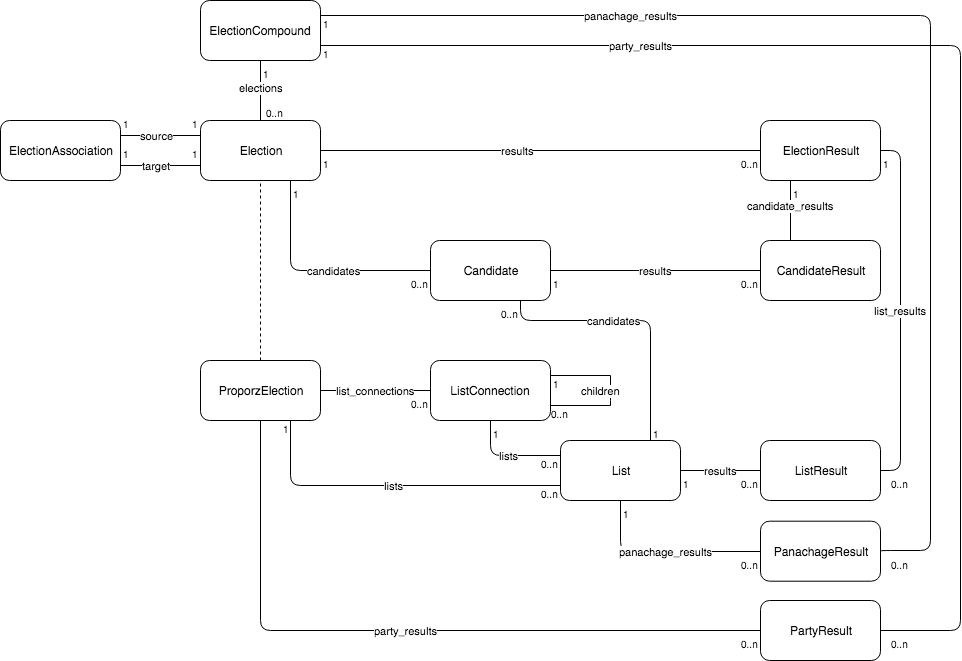
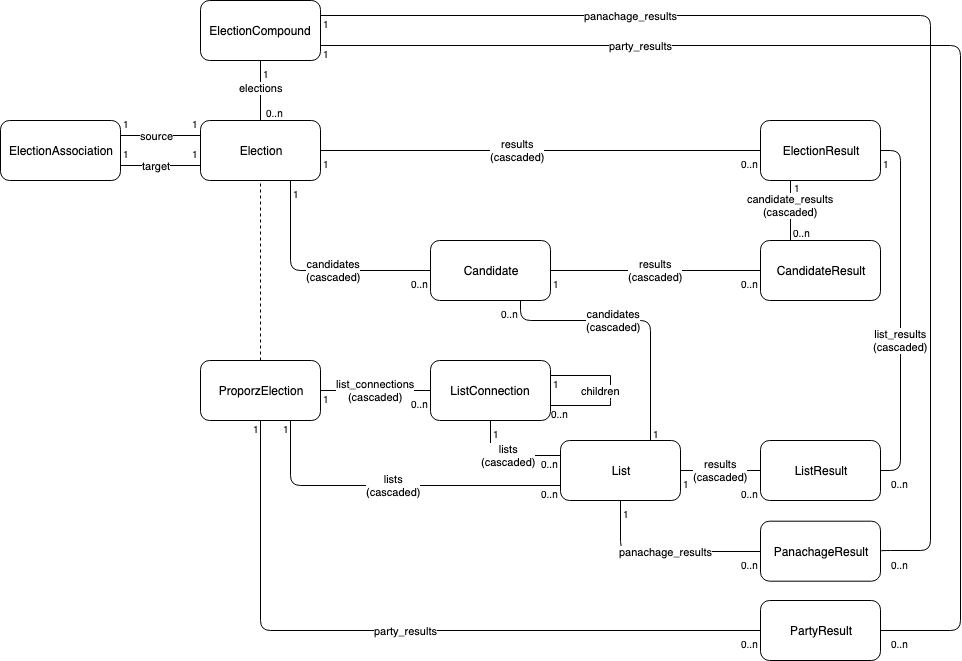
Speeds up clearing election results

diff --git a/onegov/ballot/upgrade.py b/onegov/ballot/upgrade.py
@@ -445,3 +445,66 @@ def add_default_majority_type(context):
     for election in context.session.query(Election).all():
         if not election.majority_type:
             election.majority_type = 'absolute'
+
+
+@upgrade_task('Add delete contraints')
+def add_delete_contraints(context):
+    # We use SQL (rather than operations.xxx) so that we can drop and add
+    # the constraints in one statement
+    for table, ref, update, delete in (
+        # ('candidate_results', 'candidate', False, True),  # see below
+        # ('candidate_results', 'election_result', False, True),  # see below
+        ('candidates', 'election', True, True),
+        # ('candidates', 'list', False, True),  # see below
+        ('election_results', 'election', True, True),
+        ('list_connections', 'election', True, True),
+        ('list_results', 'election_result', False, True),
+        ('list_results', 'list', False, True),
+        # ('lists', 'connection', False, True),  # see below
+        ('lists', 'election', True, True),
+    ):
+        update = 'ON UPDATE CASCADE' if update else ''
+        delete = 'ON DELETE CASCADE' if delete else ''
+        context.operations.execute(
+            f'ALTER TABLE {table} '
+            f'DROP CONSTRAINT {table}_{ref}_id_fkey, '
+            f'ADD CONSTRAINT {table}_{ref}_id_fkey'
+            f' FOREIGN KEY ({ref}_id) REFERENCES {ref}s (id) {update} {delete}'
+        )
+
+    # there was a typo
+    context.operations.execute(
+        f'ALTER TABLE candidate_results '
+        f'DROP CONSTRAINT IF EXISTS candiate_results_candiate_id_fkey, '
+        f'DROP CONSTRAINT IF EXISTS candiate_results_candidate_id_fkey, '
+        f'DROP CONSTRAINT IF EXISTS candidate_results_candiate_id_fkey, '
+        f'DROP CONSTRAINT IF EXISTS candidate_results_candidate_id_fkey, '
+        f'ADD CONSTRAINT candidate_results_candidate_id_fkey'
+        f' FOREIGN KEY (candidate_id) REFERENCES candidates (id)'
+        f' ON DELETE CASCADE'
+    )
+    context.operations.execute(
+        f'ALTER TABLE candidate_results '
+        f'DROP CONSTRAINT IF EXISTS candiate_results_election_result_id_fkey, '
+        f'DROP CONSTRAINT IF EXISTS candidate_results_election_result_id_fkey,'
+        f' ADD CONSTRAINT candidate_results_election_result_id_fkey'
+        f' FOREIGN KEY (election_result_id) REFERENCES election_results (id)'
+        f' ON DELETE CASCADE'
+    )
+    context.operations.execute(
+        f'ALTER TABLE candidates '
+        f'DROP CONSTRAINT IF EXISTS candiates_list_id_fkey, '
+        f'DROP CONSTRAINT IF EXISTS candidates_list_id_fkey,'
+        f' ADD CONSTRAINT candidates_list_id_fkey'
+        f' FOREIGN KEY (list_id) REFERENCES lists (id)'
+        f' ON DELETE CASCADE'
+    )
+
+    # this one does not fit the schema
+    context.operations.execute(
+        f'ALTER TABLE lists '
+        f'DROP CONSTRAINT IF EXISTS lists_connection_id_fkey,'
+        f' ADD CONSTRAINT lists_connection_id_fkey'
+        f' FOREIGN KEY (connection_id) REFERENCES list_connections (id)'
+        f' ON DELETE CASCADE'
+    )

diff --git a/onegov/ballot/models/election/proporz_election.py b/onegov/ballot/models/election/proporz_election.py
@@ -149,12 +149,16 @@ class ProporzElection(Election, PartyResultExportMixin):
         super(ProporzElection, self).clear_results()
 
         session = object_session(self)
-        for connection in self.list_connections:
-            session.delete(connection)
-        for list_ in self.lists:
-            session.delete(list_)
-        for result in self.party_results:
-            session.delete(result)
+        session.query(List).filter(List.election_id == self.id).delete()
+        session.query(ListConnection).filter(
+            ListConnection.election_id == self.id
+        ).delete()
+        session.query(PartyResult).filter(
+            PartyResult.owner == self.id
+        ).delete()
+        session.query(PanachageResult).filter(
+            PanachageResult.owner == self.id
+        ).delete()
 
     def export(self):
         """ Returns all data connected to this election as list with dicts.

diff --git a/onegov/ballot/tests/models/test_proporz_election.py b/onegov/ballot/tests/models/test_proporz_election.py
@@ -1242,6 +1242,16 @@ def test_proporz_election_clear_results(session):
     assert election.candidates.all() == []
     assert election.results.all() == []
     assert election.party_results.all() == []
+    assert election.panachage_results.all() == []
+
+    assert session.query(Candidate).count() == 0
+    assert session.query(CandidateResult).count() == 0
+    assert session.query(ElectionResult).count() == 0
+    assert session.query(List).count() == 0
+    assert session.query(ListConnection).count() == 0
+    assert session.query(ListResult).count() == 0
+    assert session.query(PanachageResult).count() == 0
+    assert session.query(PartyResult).count() == 0
 
 
 def test_proporz_election_rename(session):

diff --git a/onegov/ballot/models/election/candidate.py b/onegov/ballot/models/election/candidate.py
@@ -37,11 +37,17 @@ class Candidate(Base, TimestampMixin):
 
     #: the election this candidate belongs to
     election_id = Column(
-        Text, ForeignKey('elections.id', onupdate='CASCADE'), nullable=False
+        Text,
+        ForeignKey('elections.id', onupdate='CASCADE', ondelete='CASCADE'),
+        nullable=False
     )
 
     #: the list this candidate belongs to
-    list_id = Column(UUID, ForeignKey('lists.id'), nullable=True)
+    list_id = Column(
+        UUID,
+        ForeignKey('lists.id', ondelete='CASCADE'),
+        nullable=True
+    )
 
     #: the party name
     party = Column(Text, nullable=True)

diff --git a/onegov/ballot/models/election/election.py b/onegov/ballot/models/election/election.py
@@ -269,10 +269,12 @@ class Election(Base, ContentMixin, TimestampMixin,
         self.status = None
 
         session = object_session(self)
-        for candidate in self.candidates:
-            session.delete(candidate)
-        for result in self.results:
-            session.delete(result)
+        session.query(Candidate).filter(
+            Candidate.election_id == self.id
+        ).delete()
+        session.query(ElectionResult).filter(
+            ElectionResult.election_id == self.id
+        ).delete()
 
     def export(self):
         """ Returns all data connected to this election as list with dicts.

diff --git a/onegov/ballot/models/election/list.py b/onegov/ballot/models/election/list.py
@@ -34,12 +34,16 @@ class List(Base, TimestampMixin):
 
     #: the election this result belongs to
     election_id = Column(
-        Text, ForeignKey('elections.id', onupdate='CASCADE'), nullable=False
+        Text,
+        ForeignKey('elections.id', onupdate='CASCADE', ondelete='CASCADE'),
+        nullable=False
     )
 
     #: the list connection id
     connection_id = Column(
-        UUID, ForeignKey('list_connections.id'), nullable=True
+        UUID,
+        ForeignKey('list_connections.id', ondelete='CASCADE'),
+        nullable=True
     )
 
     #: a list contains n candidates

diff --git a/onegov/ballot/models/election/candidate_result.py b/onegov/ballot/models/election/candidate_result.py
@@ -20,8 +20,14 @@ class CandidateResult(Base, TimestampMixin):
 
     #: the election result this result belongs to
     election_result_id = Column(
-        UUID, ForeignKey('election_results.id'), nullable=False
+        UUID,
+        ForeignKey('election_results.id', ondelete='CASCADE'),
+        nullable=False
     )
 
     #: the candidate this result belongs to
-    candidate_id = Column(UUID, ForeignKey('candidates.id'), nullable=False)
+    candidate_id = Column(
+        UUID,
+        ForeignKey('candidates.id', ondelete='CASCADE'),
+        nullable=False
+    )

diff --git a/onegov/ballot/models/election/list_result.py b/onegov/ballot/models/election/list_result.py
@@ -20,8 +20,14 @@ class ListResult(Base, TimestampMixin):
 
     #: the election result this result belongs to
     election_result_id = Column(
-        UUID, ForeignKey('election_results.id'), nullable=False
+        UUID,
+        ForeignKey('election_results.id', ondelete='CASCADE'),
+        nullable=False
     )
 
     #: the list this result belongs to
-    list_id = Column(UUID, ForeignKey('lists.id'), nullable=False)
+    list_id = Column(
+        UUID,
+        ForeignKey('lists.id', ondelete='CASCADE'),
+        nullable=False
+    )

diff --git a/onegov/ballot/models/election/election_result.py b/onegov/ballot/models/election/election_result.py
@@ -25,7 +25,9 @@ class ElectionResult(Base, TimestampMixin, DerivedAttributesMixin):
 
     #: the election this result belongs to
     election_id = Column(
-        Text, ForeignKey('elections.id', onupdate='CASCADE'), nullable=False
+        Text,
+        ForeignKey('elections.id', onupdate='CASCADE', ondelete='CASCADE'),
+        nullable=False
     )
 
     #: entity id (e.g. a BFS number).

diff --git a/onegov/ballot/tests/models/test_election.py b/onegov/ballot/tests/models/test_election.py
@@ -765,6 +765,10 @@ def test_election_clear_results(session):
     assert election.candidates.all() == []
     assert election.results.all() == []
 
+    assert session.query(Candidate).count() == 0
+    assert session.query(CandidateResult).count() == 0
+    assert session.query(ElectionResult).count() == 0
+
 
 def test_election_has_results(session):
     election = Election(

diff --git a/onegov/ballot/models/election/list_connection.py b/onegov/ballot/models/election/list_connection.py
@@ -27,7 +27,9 @@ class ListConnection(Base, TimestampMixin):
 
     #: the election this result belongs to
     election_id = Column(
-        Text, ForeignKey('elections.id', onupdate='CASCADE'), nullable=True
+        Text,
+        ForeignKey('elections.id', onupdate='CASCADE', ondelete='CASCADE'),
+        nullable=True
     )
 
     #: ID of the parent list connection

diff --git a/HISTORY.rst b/HISTORY.rst
@@ -1,5 +1,9 @@
 Changelog
 ---------
+
+- Speeds up clearing election results.
+  [msom]
+
 3.7.6 (2019-03-18)
 ~~~~~~~~~~~~~~~~~~~
 
